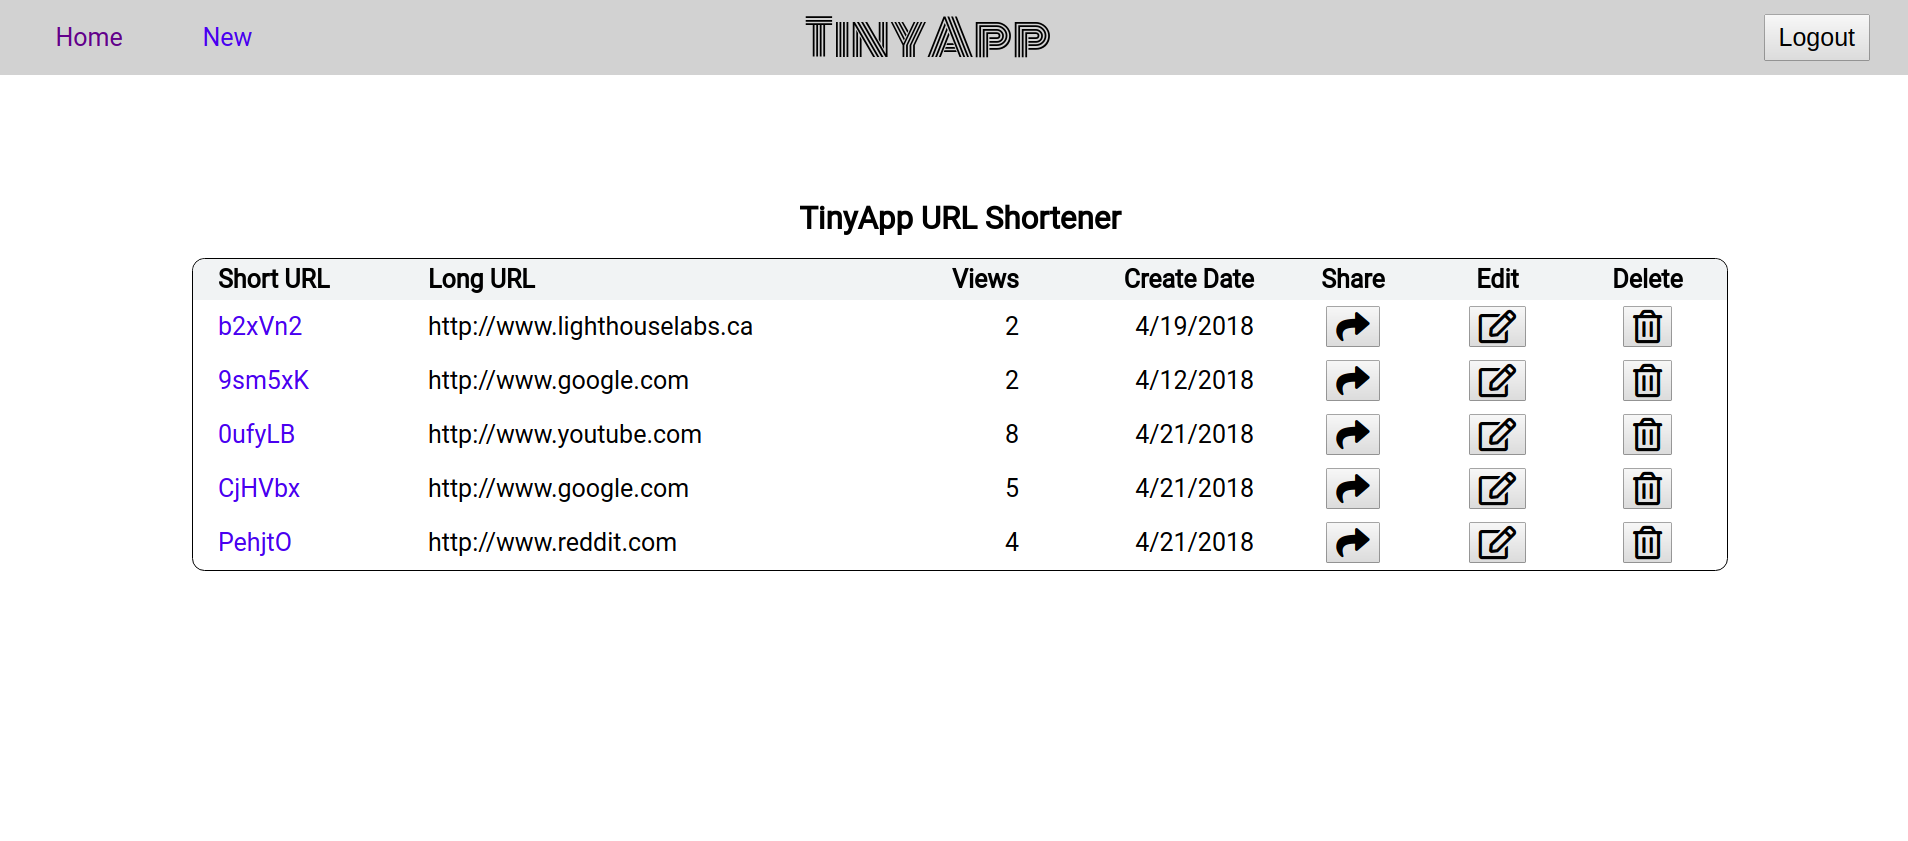
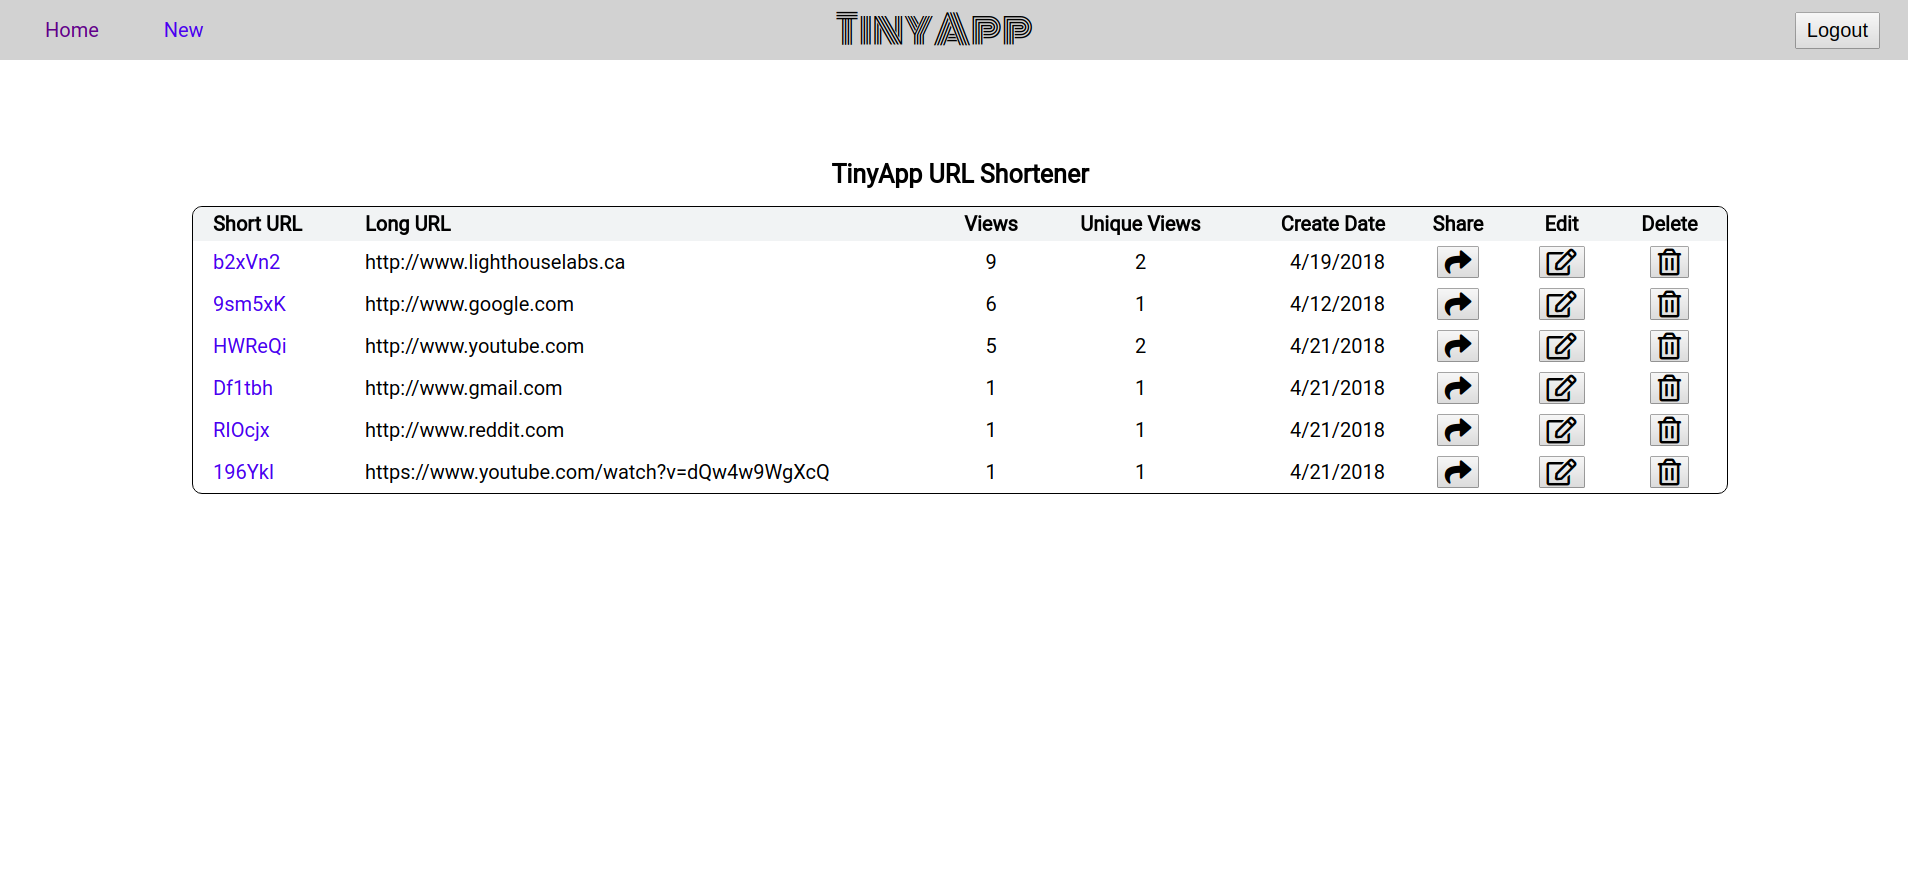
fixed up unique views output working correctly

diff --git a/express_server.js b/express_server.js
@@ -65,7 +65,7 @@ var urlDatabase = {
   },
   "k4g9YR": {
     shortURL: "k4g9YR",
-    longURL: "http://www.youtube.com",
+    longURL: "https://www.youtube.com/watch?v=dQw4w9WgXcQ",
     userID: "22222222",
     viewCount: [
       {uid: '22222222' , date: new Date(2018, 3, 19, 12, 30, 0, 0)}
